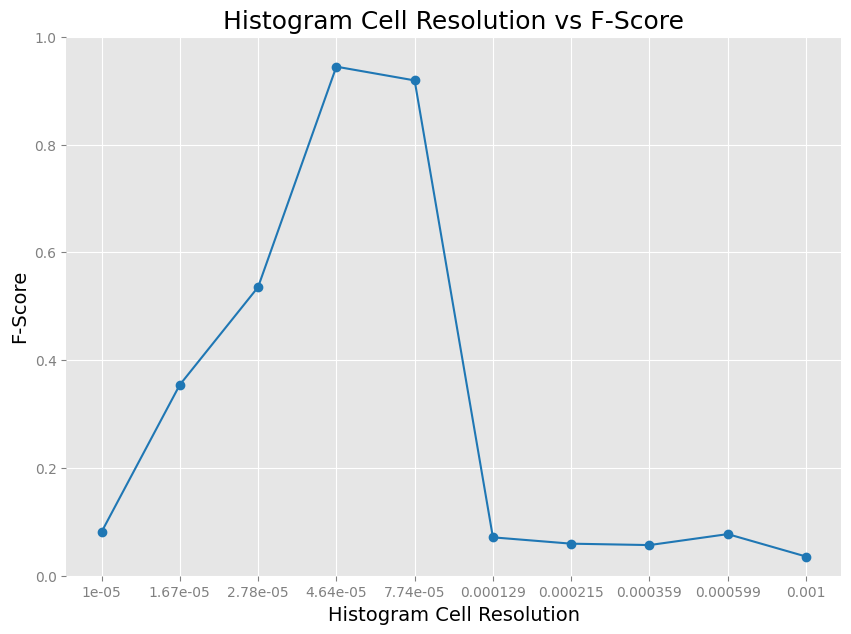
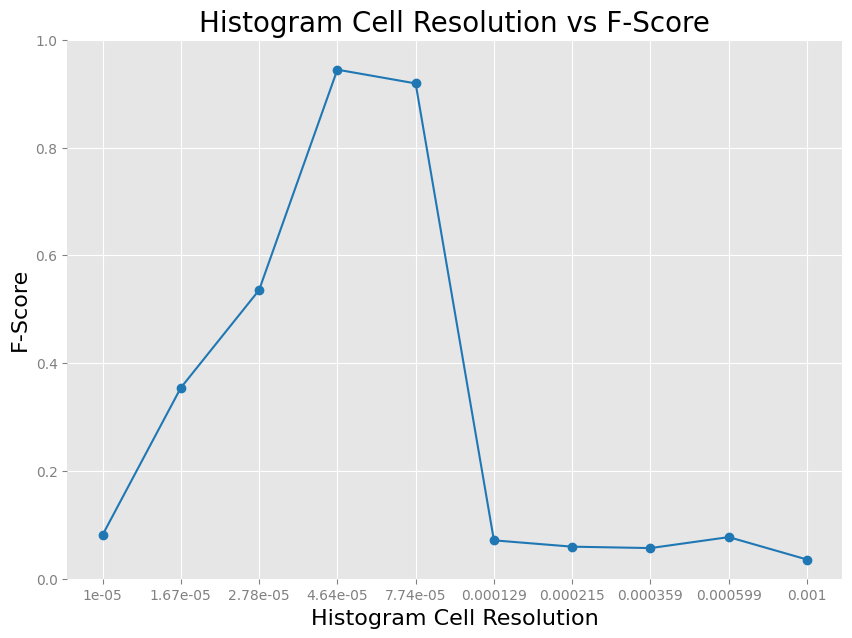
Added new results with bigger axes labels for histogram resolution experiment

diff --git a/ChangeDetection/utils/metrics.py b/ChangeDetection/utils/metrics.py
@@ -261,9 +261,9 @@ def dim_vs_y(fscores, dims, y='F-Score', savename=None, figsize=(10,7)):
 
     # Plot results
     plt.plot(dims, fscores, '-o')
-    plt.ylabel(y, fontsize=14)
-    plt.xlabel('Histogram Cell Resolution', fontsize=14)
-    plt.title(f'Histogram Cell Resolution vs {y}', fontsize=18)
+    plt.ylabel(y, fontsize=16)
+    plt.xlabel('Histogram Cell Resolution', fontsize=16)
+    plt.title(f'Histogram Cell Resolution vs {y}', fontsize=20)
     plt.ylim(0, 1)
     
     # Save results if specified
